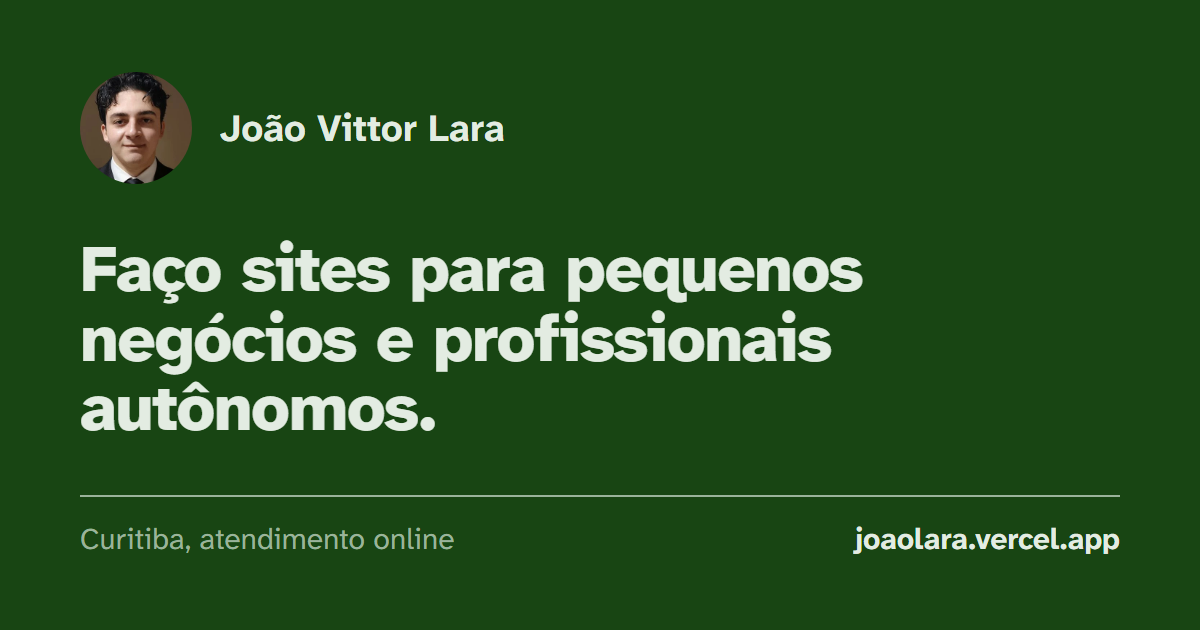
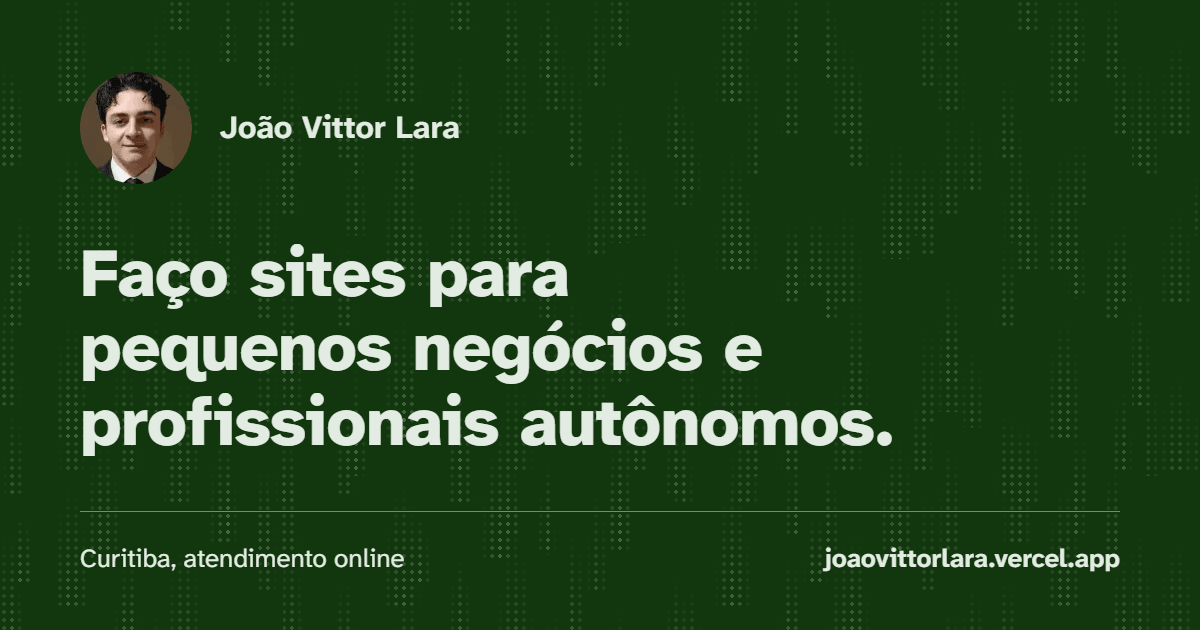
Fix: checagem do readme e ajustes

diff --git a/README.md b/README.md
@@ -14,8 +14,12 @@ o meu próprio site: **[joaovittorlara.vercel.app](https://joaovittorlara.vercel
 
 ## Sobre o site
 
-Página de apresentação, agendamento online e contato pelo WhatsApp, pensados
-primeiro para o celular. Sou de Curitiba e atendo online.
+É a minha vitrine: o que eu faço, três projetos de demonstração, as ferramentas
+que uso, a minha formação e as formas de falar comigo (WhatsApp, e-mail ou
+formulário). Foi pensado primeiro para o celular. Sou de Curitiba e atendo online.
+
+O que eu entrego a quem me contrata: página de apresentação, agendamento online
+e contato pelo WhatsApp.
 
 O site tem quatro páginas:
 
@@ -42,7 +46,7 @@ O site tem quatro páginas:
 - **Vídeo sob demanda.** O vídeo de cada projeto só é baixado quando aparece na
   tela. Antes disso, a imagem otimizada ocupa o lugar.
 - **SEO no build.** Título, descrição e Open Graph por página, dados
-  estruturados (`Person` e `Service`), `sitemap.xml` e `robots.txt`.
+  estruturados (`Person` e `Service`), sitemap e `robots.txt`.
 
 ## Projetos
 
@@ -58,6 +62,7 @@ para mostrar como eu trabalho.
 ## Estrutura
 
 ```text
+public/                  # favicons e a imagem de prévia do link (og.png)
 src/
 ├── consts.ts            # dados que aparecem em mais de um lugar (URL, contato, formação)
 ├── content.config.ts    # formato de cada projeto
@@ -66,7 +71,7 @@ src/
 ├── layouts/Base.astro   # <head>, SEO, Open Graph, dados estruturados
 ├── pages/               # início, projetos, privacidade, 404 e robots.txt
 ├── components/          # cada parte da página em um componente
-├── assets/              # imagens e vídeos, otimizados no build
+├── assets/              # imagens (otimizadas no build) e os vídeos dos projetos
 └── styles/global.css    # cores, espaçamentos e tipografia
 ```
 
@@ -82,9 +87,10 @@ npm run build          # gera o site em ./dist
 npm run preview        # abre o build localmente
 ```
 
-A chave do Web3Forms é pública por desenho: ela vai para o HTML do formulário.
-Fica fora do código por organização, não por segurança. A proteção é restringir
-o domínio no painel do Web3Forms.
+A chave do Web3Forms é pública por desenho: ela vai para o HTML do formulário, e
+quem a copiar só consegue enviar e-mails para o dono dela. Fica fora do código
+por organização, não por segurança. Contra spam, o formulário tem um honeypot e
+o Web3Forms filtra os envios.
 
 ## Contato
 
